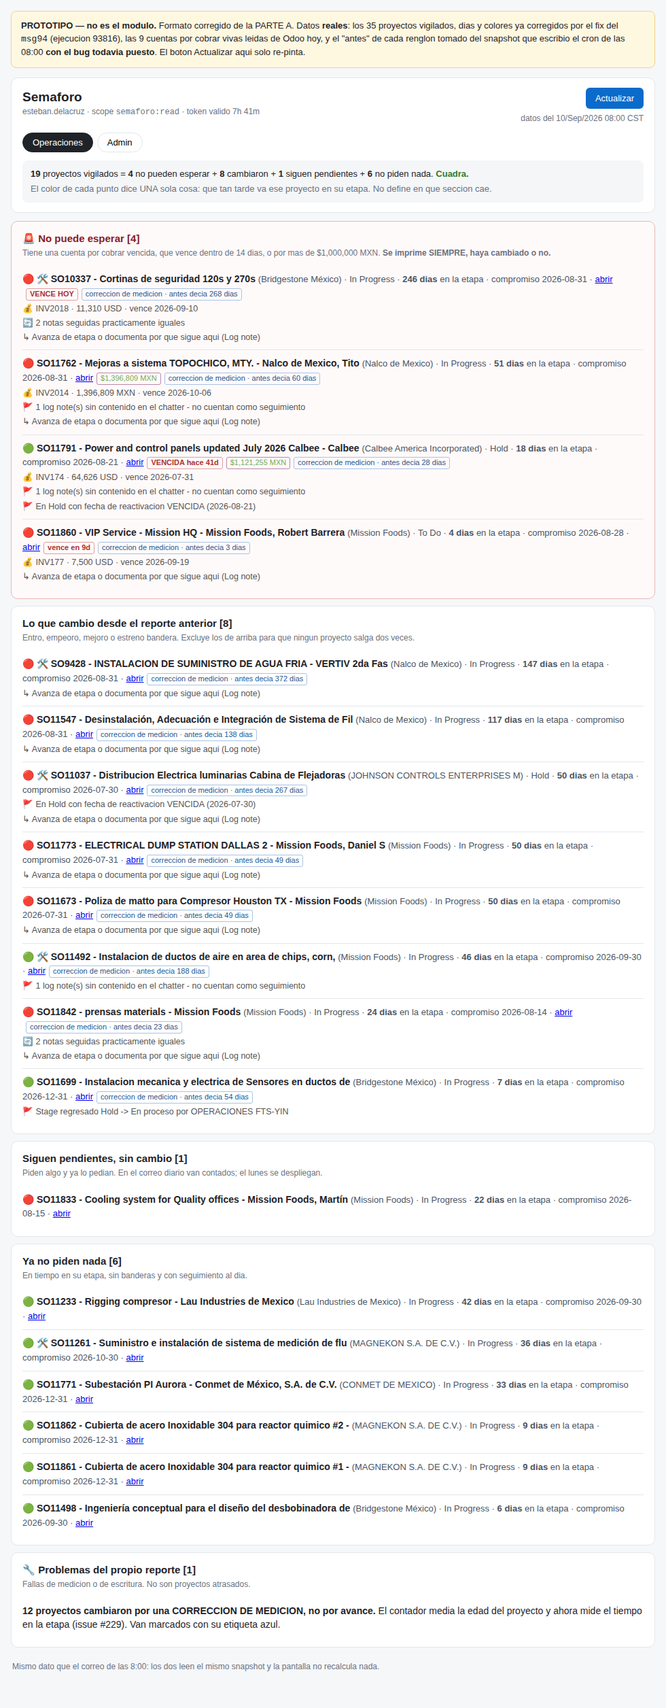
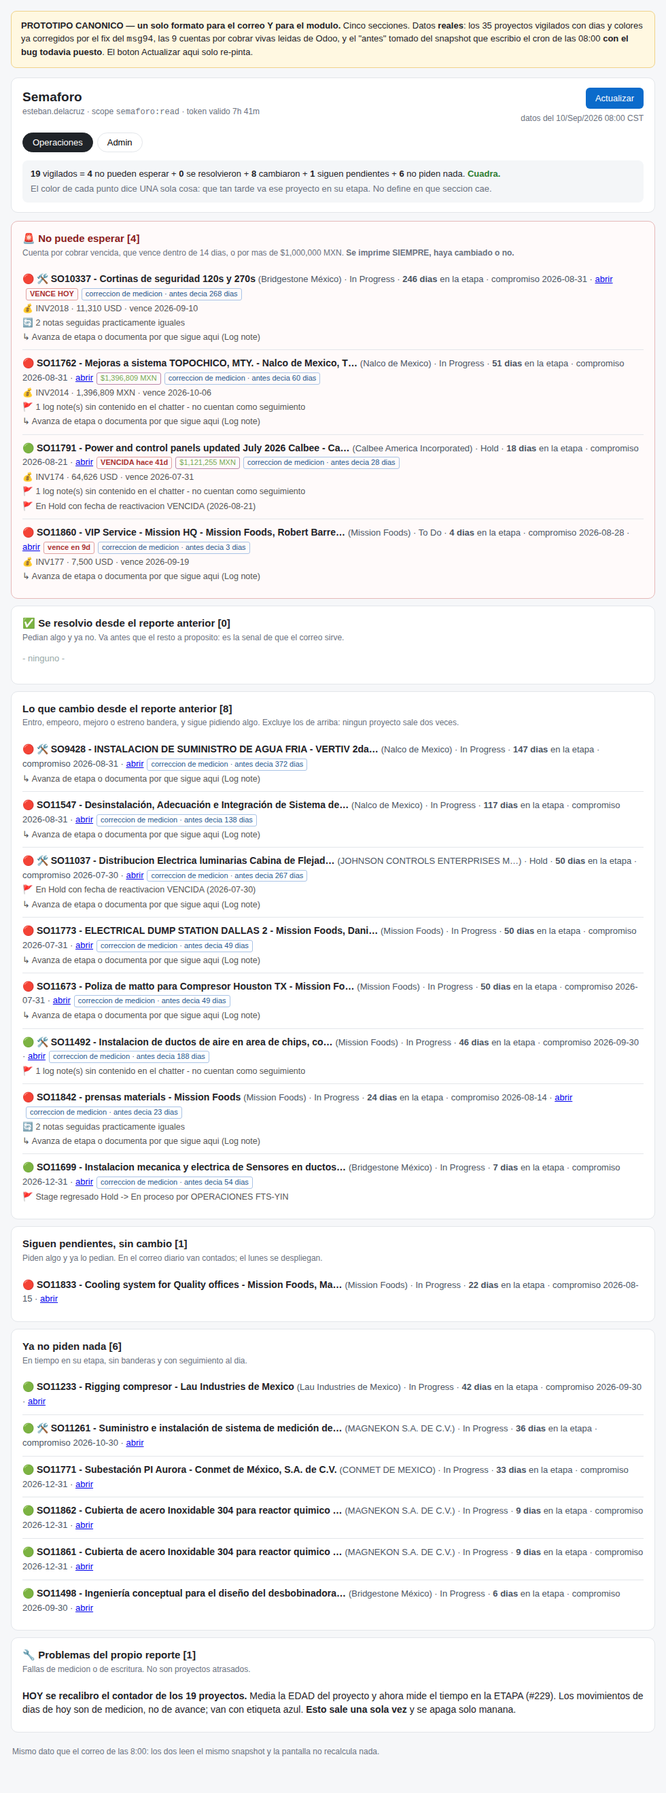
fix(semaforo): prototipo CANONICO, 5 secciones, con las 4 correcciones (#226 #230)
Un solo formato para el correo Y para el modulo. Este archivo manda; la maqueta
correo-propuesto.html queda superseded (proponia 3 secciones, sin la capa de
siempre visible que es la que impide que SO10337 se esconda).

(a) La etiqueta "correccion de medicion" ahora marca el EVENTO PUNTUAL y caduca
    sola: se dispara cuando fuente_a paso de create_date a stage_msg entre la
    corrida anterior y esta. La version previa usaba (dias cambiaron && fuente
    === stage_msg), que a partir de manana -cuando TODOS son stage_msg- habria
    marcado cualquier cambio normal como correccion. Funcionaba por coincidencia
    el unico dia en que la coincidencia se cumplia.

(b) Vuelve SE RESOLVIO, como seccion propia y ANTES del resto: es la senal que
    hace que la gente lea el correo. Se habia perdido porque la seccion de
    cambios exige pide(f), asi que un proyecto que deja de pedir algo caia en
    "ya no piden nada" sin distinguirse.
    Y de paso aparece una interaccion que no habia visto: SO11290 "se resolvio"
    UNICAMENTE porque el contador se corrigio. El renglon lo dice con todas sus
    letras en vez de acreditarse un avance que no ocurrio.

(d) Los nombres se cortan con elipsis, no en seco.

(c) queda como propuesta en el issue: la urgencia financiera se rutea hoy por el
    grupo del PROYECTO, asi que la factura vencida de SO10337 sale en el correo
    de Operaciones y Erick, que cobra, esta en el de Admin.
[…]

Changed region(s): [[0.0306, 0.0, 0.9796, 0.9936], [0.8878, 0.2795, 0.9184, 0.3105]]

diff --git a/docs/watchdogs/prototipo/semaforo-modulo.html b/docs/watchdogs/prototipo/semaforo-modulo.html
@@ -1,4 +1,4 @@
-<!doctype html><meta charset="utf-8"><title>Semaforo - prototipo del modulo</title>
+<!doctype html><meta charset="utf-8"><title>Semaforo - prototipo canonico</title>
 <style>
  :root{--rojo:#c62828;--amar:#b35900;--verde:#2e7d32;--tinta:#1f2328;--gris:#6b7280;--linea:#e3e6ea;--urg:#8a1c1c}
  *{box-sizing:border-box}
@@ -38,9 +38,9 @@
  @media(max-width:560px){.fila1{flex-direction:column}}
 </style>
 <div class="wrap">
-<div class="aviso"><b>PROTOTIPO — no es el modulo.</b> Formato corregido de la PARTE A. Datos <b>reales</b>:
-los 35 proyectos vigilados, dias y colores ya corregidos por el fix del <code>msg94</code> (ejecucion 93816),
-las 9 cuentas por cobrar vivas leidas de Odoo hoy, y el "antes" de cada renglon tomado del snapshot que
+<div class="aviso"><b>PROTOTIPO CANONICO — un solo formato para el correo Y para el modulo.</b>
+Cinco secciones. Datos <b>reales</b>: los 35 proyectos vigilados con dias y colores ya corregidos por el fix
+del <code>msg94</code>, las 9 cuentas por cobrar vivas leidas de Odoo, y el "antes" tomado del snapshot que
 escribio el cron de las 08:00 <b>con el bug todavia puesto</b>. El boton Actualizar aqui solo re-pinta.</div>
 <header class="app">
  <div class="fila1">
@@ -58,35 +58,38 @@ escribio el cron de las 08:00 <b>con el bug todavia puesto</b>. El boton Actuali
 <p class="pie">Mismo dato que el correo de las 8:00: los dos leen el mismo snapshot y la pantalla no recalcula nada.</p>
 </div>
 <script>
-const FILAS = [{"id":2375,"name":"SO11498 - Ingeniería conceptual para el diseño del desbobinadora de carretes Bridgestone e - Bridgestone México","stage":"In Progress","grupo":"Operaciones","cliente":"Bridgestone México","dias":6,"color":"verde","banderas":[],"sin_avance":false,"racha":1,"fuente":"stage_msg","tramo":"6-15","compromiso":"2026-09-30","link":"https://serviciosfts.odoo.com/web#id=2375&model=project.project&view_type=form","antes":{"dias":6,"color":"verde"}},{"id":2360,"name":"SO11748 - Chiller instalation - Calbee America Incorporated, Omar De la Garza","stage":"En plazo de credito","grupo":"Admin","cliente":"Calbee America Incorporated","dias":16,"color":"verde","banderas":[],"sin_avance":false,"racha":1,"fuente":"stage_msg","tramo":"16-30","compromiso":null,"link":"https://serviciosfts.odoo.com/web#id=2360&model=project.project&view_type=form","cxc":{"inv":"INV176","cur":"USD","nat":4469,"mxn":77537.15000000001,"due":"2026-08-18","d":23},"antes":{"dias":30,"color":"verde"}},{"id":2372,"name":"SO11838 - Tools for Calbee - Calbee America Incorporated, Omar De la Garza","stage":"Done Operations","grupo":"Admin","cliente":"Calbee America Incorporated","dias":8,"color":"rojo","banderas":[],"sin_avance":false,"racha":1,"fuente":"stage_msg","tramo":"6-15","compromiso":"2026-07-30","link":"https://serviciosfts.odoo.com/web#id=2372&model=project.project&view_type=form","antes":{"dias":8,"color":"rojo"}},{"id":2376,"name":"SO11860 - VIP Service - Mission HQ - Mission Foods, Robert Barrera","stage":"To Do","grupo":"Operaciones","cliente":"Mission Foods","dias":4,"color":"rojo","banderas":[],"sin_avance":false,"racha":0,"fuente":"stage_msg","tramo":"1-5","compromiso":"2026-08-28","link":"https://serviciosfts.odoo.com/web#id=2376&model=project.project&view_type=form","cxc":{"inv":"INV177","cur":"USD","nat":7500,"mxn":130125.00000000001,"due":"2026-09-19","d":-9},"antes":{"dias":3,"color":"rojo"}},{"id":2352,"name":"SO11699 - Instalacion mecanica y electrica de Sensores en ductos de Extraccion de Colector - Bridgestone México, Ruben Robledo","stage":"In Progress","grupo":"Operaciones","cliente":"Bridgestone México","dias":7,"color":"verde","banderas":["Stage regresado Hold -> En proceso por OPERACIONES FTS-YIN"],"sin_avance":false,"racha":1,"fuente":"stage_msg","tramo":">30","compromiso":"2026-12-31","link":"https://serviciosfts.odoo.com/web#id=2352&model=project.project&view_type=form","antes":{"dias":54,"color":"verde"}},{"id":2364,"name":"SO11832 - Servicio de ajuste de velocidad en embotelladora GEPP - BEBIDAS PURIFICADAS","stage":"En plazo de credito","grupo":"Admin","cliente":"BEBIDAS PURIFICADAS","dias":13,"color":"verde","banderas":[],"sin_avance":false,"racha":1,"fuente":"stage_msg","tramo":"16-30","compromiso":"2026-08-31","link":"https://serviciosfts.odoo.com/web#id=2364&model=project.project&view_type=form","cxc":{"inv":"INV2022","cur":"MXN","nat":86452.48,"mxn":86452.48,"due":"2026-12-16","d":-97},"antes":{"dias":17,"color":"verde"}},{"id":2374,"name":"SO11851 - Materials for aluminium jacketing - Calbee America Incorporated, Omar De la Garza","stage":"Done Operations","grupo":"Admin","cliente":"Calbee America Incorporated","dias":8,"color":"rojo","banderas":[],"sin_avance":false,"racha":1,"fuente":"stage_msg","tramo":"6-15","compromiso":"2026-08-17","link":"https://serviciosfts.odoo.com/web#id=2374&model=project.project&view_type=form","antes":{"dias":8,"color":"rojo"}},{"id":2373,"name":"SO11846 - supply of SS materials for Press DALLAS - Mission Foods","stage":"Done Operations","grupo":"Admin","cliente":"Mission Foods","dias":8,"color":"rojo","banderas":[],"sin_avance":false,"racha":1,"fuente":"stage_msg","tramo":"6-15","compromiso":"2026-08-05","link":"https://serviciosfts.odoo.com/web#id=2373&model=project.project&view_type=form","antes":{"dias":8,"color":"rojo"}},{"id":2369,"name":"SO11862 - Cubierta de acero Inoxidable 304 para reactor quimico #2 - MAGNEKON S.A. DE C.V.","stage":"In Progress","grupo":"Operaciones","cliente":"MAGNEKON S.A. DE C.V.","dias":9,"color":"verde","banderas":[],"sin_avance":false,"racha":1,"fuente":"stage_msg","tramo":"6-15","compromiso":"2026-12-31","link":"https://serviciosfts.odoo.com/web#id=2369&model=project.project&view_type=form","antes":{"dias":8,"color":"verde"}},{"id":213,"name":"🛠 SO11037 - Distribucion Electrica luminarias Cabina de Flejadoras - clarios recicladora","stage":"Hold","grupo":"Operaciones","cliente":"JOHNSON CONTROLS ENTERPRISES MEXICO","dias":50,"color":"rojo","banderas":["En Hold con fecha de reactivacion VENCIDA (2026-07-30)"],"sin_avance":false,"racha":1,"fuente":"stage_msg","tramo":">30","compromiso":"2026-07-30","link":"https://serviciosfts.odoo.com/web#id=213&model=project.project&view_type=form","antes":{"dias":267,"color":"rojo"}},{"id":241,"name":"🛠 SO11290 - Test loop ingeniería mexicali nalco","stage":"En plazo de credito","grupo":"Admin","cliente":"Nalco de Mexico","dias":23,"color":"verde","banderas":[],"sin_avance":false,"racha":1,"fuente":"stage_msg","tramo":">30","compromiso":"2026-07-30","link":"https://serviciosfts.odoo.com/web#id=241&model=project.project&view_type=form","cxc":{"inv":"INV2013","cur":"MXN","nat":184126.8,"mxn":184126.8,"due":"2026-10-04","d":-24},"antes":{"dias":204,"color":"rojo"}},{"id":2371,"name":"SO11849 - supply of breaker - Mission Foods","stage":"Done Operations","grupo":"Admin","cliente":"Mission Foods","dias":8,"color":"rojo","banderas":[],"sin_avance":false,"racha":1,"fuente":"stage_msg","tramo":"6-15","compromiso":"2026-08-14","link":"https://serviciosfts.odoo.com/web#id=2371&model=project.project&view_type=form","antes":{"dias":8,"color":"rojo"}},{"id":2368,"name":"SO11861 - Cubierta de acero Inoxidable 304 para reactor quimico #1 - MAGNEKON S.A. DE C.V.","stage":"In Progress","grupo":"Operaciones","cliente":"MAGNEKON S.A. DE C.V.","dias":9,"color":"verde","banderas":[],"sin_avance":false,"racha":1,"fuente":"stage_msg","tramo":"6-15","compromiso":"2026-12-31","link":"https://serviciosfts.odoo.com/web#id=2368&model=project.project&view_type=form","antes":{"dias":8,"color":"verde"}},{"id":160,"name":"🛠 SO10300 - Techo de Magnekon","stage":"En plazo de credito","grupo":"Admin","cliente":"MAGNEKON S.A. DE C.V.","dias":27,"color":"verde","banderas":["1 log note(s) sin contenido en el chatter - no cuentan como seguimiento"],"sin_avance":false,"racha":1,"fuente":"stage_msg","tramo":">30","compromiso":"2026-07-31","link":"https://serviciosfts.odoo.com/web#id=160&model=project.project&view_type=form","cxc":{"inv":"INV2021","cur":"MXN","nat":1834540,"mxn":1834540,"due":"2026-09-23","d":-13},"antes":{"dias":331,"color":"rojo"}},{"id":2353,"name":"SO11779 - Reparacion de motores de rampa - BEBIDAS PURIFICADAS","stage":"En plazo de credito","grupo":"Admin","cliente":"BEBIDAS PURIFICADAS","dias":36,"color":"amarillo","banderas":[],"sin_avance":false,"racha":1,"fuente":"stage_msg","tramo":">30","compromiso":"2026-06-30","link":"https://serviciosfts.odoo.com/web#id=2353&model=project.project&view_type=form","cxc":{"inv":"INV2006","cur":"MXN","nat":14469.84,"mxn":14469.84,"due":"2026-11-17","d":-68},"antes":{"dias":54,"color":"rojo"}},{"id":2361,"name":"SO11791 - Power and control panels updated July 2026 Calbee - Calbee America Incorporated, Omar De la Garza","stage":"Hold","grupo":"Operaciones","cliente":"Calbee America Incorporated","dias":18,"color":"verde","banderas":["1 log note(s) sin contenido en el chatter - no cuentan como seguimiento","En Hold con fecha de reactivacion VENCIDA (2026-08-21)"],"sin_avance":false,"racha":1,"fuente":"stage_msg","tramo":"16-30","compromiso":"2026-08-21","link":"https://serviciosfts.odoo.com/web#id=2361&model=project.project&view_type=form","cxc":{"inv":"INV174","cur":"USD","nat":64625.63,"mxn":1121254.6805,"due":"2026-07-31","d":41},"antes":{"dias":28,"color":"verde"}},{"id":2363,"name":"SO11833 - Cooling system for Quality offices - Mission Foods, Martín Infante","stage":"In Progress","grupo":"Operaciones","cliente":"Mission Foods","dias":22,"color":"rojo","banderas":[],"sin_avance":false,"racha":1,"fuente":"stage_msg","tramo":"16-30","compromiso":"2026-08-15","link":"https://serviciosfts.odoo.com/web#id=2363&model=project.project&view_type=form","antes":{"dias":22,"color":"rojo"}},{"id":2370,"name":"SO11850 - supply of ss pipe 1 1/2 and liquid tight - Mission Foods","stage":"Done Operations","grupo":"Admin","cliente":"Mission Foods","dias":8,"color":"rojo","banderas":[],"sin_avance":false,"racha":1,"fuente":"stage_msg","tramo":"6-15","compromiso":"2026-08-12","link":"https://serviciosfts.odoo.com/web#id=2370&model=project.project&view_type=form","antes":{"dias":8,"color":"rojo"}},{"id":2327,"name":"SO11511 - Valvula para lavado de botellas","stage":"En plazo de credito","grupo":"Admin","cliente":"BEBIDAS PURIFICADAS","dias":60,"color":"rojo","banderas":[],"sin_avance":false,"racha":1,"fuente":"stage_msg","tramo":">30","compromiso":"2026-03-18","link":"https://serviciosfts.odoo.com/web#id=2327&model=project.project&view_type=form","antes":{"dias":101,"color":"rojo"}},{"id":2366,"name":"SO11772 - Suministro e instalación de injerto de drenado sanitario de 3\" sobre codo - Nalco de Mexico, Tito Everardo Ordaz","stage":"Done Operations","grupo":"Admin","cliente":"Nalco de Mexico","dias":12,"color":"rojo","banderas":[],"sin_avance":false,"racha":1,"fuente":"stage_msg","tramo":"6-15","compromiso":"2026-08-28","link":"https://serviciosfts.odoo.com/web#id=2366&model=project.project&view_type=form","antes":{"dias":15,"color":"rojo"}},{"id":2357,"name":"SO11789 - Suministro de Panelview HMI - GRUMA CORP DBA MISSION FOODS","stage":"En plazo de credito","grupo":"Admin","cliente":"GRUMA CORP DBA MISSION FOODS","dias":42,"color":"rojo","banderas":[],"sin_avance":false,"racha":1,"fuente":"stage_msg","tramo":">30","compromiso":"2026-07-13","link":"https://serviciosfts.odoo.com/web#id=2357&model=project.project&view_type=form","antes":{"dias":45,"color":"rojo"}},{"id":2362,"name":"SO11842 - prensas materials - Mission Foods","stage":"In Progress","grupo":"Operaciones","cliente":"Mission Foods","dias":24,"color":"rojo","banderas":[],"sin_avance":true,"racha":2,"fuente":"stage_msg","tramo":"16-30","compromiso":"2026-08-14","link":"https://serviciosfts.odoo.com/web#id=2362&model=project.project&view_type=form","antes":{"dias":23,"color":"rojo"}},{"id":2365,"name":"SO11737 - Adecuaciones electricas y de control para diferencial de precion - Nalco de Mexico, Tito Everardo Ordaz","stage":"Done Operations","grupo":"Admin","cliente":"Nalco de Mexico","dias":12,"color":"rojo","banderas":[],"sin_avance":false,"racha":1,"fuente":"stage_msg","tramo":"16-30","compromiso":"2026-08-31","link":"https://serviciosfts.odoo.com/web#id=2365&model=project.project&view_type=form","antes":{"dias":17,"color":"rojo"}},{"id":2359,"name":"SO11771 - Subestación PI Aurora - Conmet de México, S.A. de C.V.","stage":"In Progress","grupo":"Operaciones","cliente":"CONMET DE MEXICO","dias":33,"color":"verde","banderas":[],"sin_avance":false,"racha":1,"fuente":"stage_msg","tramo":">30","compromiso":"2026-12-31","link":"https://serviciosfts.odoo.com/web#id=2359&model=project.project&view_type=form","antes":{"dias":33,"color":"verde"}},{"id":101,"name":"🛠 SO7723 - servicio de integración de sistema con sensor de nivel y pantalla HMI","stage":"En plazo de credito","grupo":"Admin","cliente":"MAGNEKON S.A. DE C.V.","dias":61,"color":"rojo","banderas":[],"sin_avance":false,"racha":1,"fuente":"stage_msg","tramo":">30","compromiso":"2025-12-23","link":"https://serviciosfts.odoo.com/web#id=101&model=project.project&view_type=form","antes":{"dias":402,"color":"rojo"}},{"id":2358,"name":"SO11233 - Rigging compresor - Lau Industries de Mexico","stage":"In Progress","grupo":"Operaciones","cliente":"Lau Industries de Mexico","dias":42,"color":"verde","banderas":[],"sin_avance":false,"racha":1,"fuente":"stage_msg","tramo":">30","compromiso":"2026-09-30","link":"https://serviciosfts.odoo.com/web#id=2358&model=project.project&view_type=form","antes":{"dias":42,"color":"verde"}},{"id":2367,"name":"SO11718 - Fabricación e instalación de toma para saneamiento de planta en zona de arreglo  - Nalco de Mexico, Tito Everardo Ordaz","stage":"Done Operations","grupo":"Admin","cliente":"Nalco de Mexico","dias":12,"color":"rojo","banderas":[],"sin_avance":false,"racha":1,"fuente":"stage_msg","tramo":"6-15","compromiso":"2026-08-28","link":"https://serviciosfts.odoo.com/web#id=2367&model=project.project&view_type=form","antes":{"dias":15,"color":"rojo"}},{"id":506,"name":"🛠 SO11492 - Instalacion de ductos de aire en area de chips, corn, flour process area & packing","stage":"In Progress","grupo":"Operaciones","cliente":"Mission Foods","dias":46,"color":"verde","banderas":["1 log note(s) sin contenido en el chatter - no cuentan como seguimiento"],"sin_avance":false,"racha":1,"fuente":"stage_msg","tramo":">30","compromiso":"2026-09-30","link":"https://serviciosfts.odoo.com/web#id=506&model=project.project&view_type=form","antes":{"dias":188,"color":"verde"}},{"id":343,"name":"🛠 SO11261 - Suministro e instalación de sistema de medición de flujo de 2 Etil Hexanol","stage":"In Progress","grupo":"Operaciones","cliente":"MAGNEKON S.A. DE C.V.","dias":36,"color":"verde","banderas":[],"sin_avance":false,"racha":1,"fuente":"stage_msg","tramo":">30","compromiso":"2026-10-30","link":"https://serviciosfts.odoo.com/web#id=343&model=project.project&view_type=form","antes":{"dias":200,"color":"verde"}},{"id":2349,"name":"SO11762 - Mejoras a sistema TOPOCHICO, MTY. - Nalco de Mexico, Tito Everardo Ordaz","stage":"In Progress","grupo":"Operaciones","cliente":"Nalco de Mexico","dias":51,"color":"rojo","banderas":["1 log note(s) sin contenido en el chatter - no cuentan como seguimiento"],"sin_avance":false,"racha":1,"fuente":"stage_msg","tramo":">30","compromiso":"2026-08-31","link":"https://serviciosfts.odoo.com/web#id=2349&model=project.project&view_type=form","cxc":{"inv":"INV2014","cur":"MXN","nat":1396808.9,"mxn":1396808.9,"due":"2026-10-06","d":-26},"antes":{"dias":60,"color":"rojo"}},{"id":2356,"name":"SO11773 - ELECTRICAL DUMP STATION DALLAS 2 - Mission Foods, Daniel Sanudo","stage":"In Progress","grupo":"Operaciones","cliente":"Mission Foods","dias":50,"color":"rojo","banderas":[],"sin_avance":false,"racha":1,"fuente":"stage_msg","tramo":">30","compromiso":"2026-07-31","link":"https://serviciosfts.odoo.com/web#id=2356&model=project.project&view_type=form","antes":{"dias":49,"color":"rojo"}},{"id":2302,"name":"SO11547 - Desinstalación, Adecuación e Integración de Sistema de Filtración en planta Topo Chico","stage":"In Progress","grupo":"Operaciones","cliente":"Nalco de Mexico","dias":117,"color":"rojo","banderas":[],"sin_avance":false,"racha":1,"fuente":"stage_msg","tramo":">30","compromiso":"2026-08-31","link":"https://serviciosfts.odoo.com/web#id=2302&model=project.project&view_type=form","antes":{"dias":138,"color":"rojo"}},{"id":2355,"name":"SO11673 - Poliza de matto para Compresor Houston TX - Mission Foods","stage":"In Progress","grupo":"Operaciones","cliente":"Mission Foods","dias":50,"color":"rojo","banderas":[],"sin_avance":false,"racha":1,"fuente":"stage_msg","tramo":">30","compromiso":"2026-07-31","link":"https://serviciosfts.odoo.com/web#id=2355&model=project.project&view_type=form","antes":{"dias":49,"color":"rojo"}},{"id":121,"name":"🛠 SO9428 - INSTALACION DE SUMINISTRO DE AGUA FRIA - VERTIV 2da Fase","stage":"In Progress","grupo":"Operaciones","cliente":"Nalco de Mexico","dias":147,"color":"rojo","banderas":[],"sin_avance":false,"racha":1,"fuente":"stage_msg","tramo":">30","compromiso":"2026-08-31","link":"https://serviciosfts.odoo.com/web#id=121&model=project.project&view_type=form","antes":{"dias":372,"color":"rojo"}},{"id":212,"name":"🛠 SO10337 - Cortinas de seguridad 120s y 270s","stage":"In Progress","grupo":"Operaciones","cliente":"Bridgestone México","dias":246,"color":"rojo","banderas":[],"sin_avance":true,"racha":2,"fuente":"stage_msg","tramo":">30","compromiso":"2026-08-31","link":"https://serviciosfts.odoo.com/web#id=212&model=project.project&view_type=form","cxc":{"inv":"INV2018","cur":"USD","nat":11310,"mxn":194752.55,"due":"2026-09-10","d":0},"antes":{"dias":268,"color":"rojo"}}];
+const FILAS=[{"id":2375,"name":"SO11498 - Ingeniería conceptual para el diseño del desbobinadora de carretes Bridgestone e - Bridgestone México","stage":"In Progress","grupo":"Operaciones","cliente":"Bridgestone México","dias":6,"color":"verde","banderas":[],"sin_avance":false,"racha":1,"fuente":"stage_msg","tramo":"6-15","compromiso":"2026-09-30","link":"https://serviciosfts.odoo.com/web#id=2375&model=project.project&view_type=form","antes":{"dias":6,"color":"verde","fuente":"create_date","pide":false}},{"id":2360,"name":"SO11748 - Chiller instalation - Calbee America Incorporated, Omar De la Garza","stage":"En plazo de credito","grupo":"Admin","cliente":"Calbee America Incorporated","dias":16,"color":"verde","banderas":[],"sin_avance":false,"racha":1,"fuente":"stage_msg","tramo":"16-30","compromiso":null,"link":"https://serviciosfts.odoo.com/web#id=2360&model=project.project&view_type=form","cxc":{"inv":"INV176","cur":"USD","nat":4469,"mxn":77537.15000000001,"due":"2026-08-18","d":23},"antes":{"dias":30,"color":"verde","fuente":"create_date","pide":false}},{"id":2372,"name":"SO11838 - Tools for Calbee - Calbee America Incorporated, Omar De la Garza","stage":"Done Operations","grupo":"Admin","cliente":"Calbee America Incorporated","dias":8,"color":"rojo","banderas":[],"sin_avance":false,"racha":1,"fuente":"stage_msg","tramo":"6-15","compromiso":"2026-07-30","link":"https://serviciosfts.odoo.com/web#id=2372&model=project.project&view_type=form","antes":{"dias":8,"color":"rojo","fuente":"create_date","pide":true}},{"id":2376,"name":"SO11860 - VIP Service - Mission HQ - Mission Foods, Robert Barrera","stage":"To Do","grupo":"Operaciones","cliente":"Mission Foods","dias":4,"color":"rojo","banderas":[],"sin_avance":false,"racha":0,"fuente":"stage_msg","tramo":"1-5","compromiso":"2026-08-28","link":"https://serviciosfts.odoo.com/web#id=2376&model=project.project&view_type=form","cxc":{"inv":"INV177","cur":"USD","nat":7500,"mxn":130125.00000000001,"due":"2026-09-19","d":-9},"antes":{"dias":3,"color":"rojo","fuente":"create_date","pide":true}},{"id":2352,"name":"SO11699 - Instalacion mecanica y electrica de Sensores en ductos de Extraccion de Colector - Bridgestone México, Ruben Robledo","stage":"In Progress","grupo":"Operaciones","cliente":"Bridgestone México","dias":7,"color":"verde","banderas":["Stage regresado Hold -> En proceso por OPERACIONES FTS-YIN"],"sin_avance":false,"racha":1,"fuente":"stage_msg","tramo":">30","compromiso":"2026-12-31","link":"https://serviciosfts.odoo.com/web#id=2352&model=project.project&view_type=form","antes":{"dias":54,"color":"verde","fuente":"create_date","pide":true}},{"id":2364,"name":"SO11832 - Servicio de ajuste de velocidad en embotelladora GEPP - BEBIDAS PURIFICADAS","stage":"En plazo de credito","grupo":"Admin","cliente":"BEBIDAS PURIFICADAS","dias":13,"color":"verde","banderas":[],"sin_avance":false,"racha":1,"fuente":"stage_msg","tramo":"16-30","compromiso":"2026-08-31","link":"https://serviciosfts.odoo.com/web#id=2364&model=project.project&view_type=form","cxc":{"inv":"INV2022","cur":"MXN","nat":86452.48,"mxn":86452.48,"due":"2026-12-16","d":-97},"antes":{"dias":17,"color":"verde","fuente":"create_date","pide":false}},{"id":2374,"name":"SO11851 - Materials for aluminium jacketing - Calbee America Incorporated, Omar De la Garza","stage":"Done Operations","grupo":"Admin","cliente":"Calbee America Incorporated","dias":8,"color":"rojo","banderas":[],"sin_avance":false,"racha":1,"fuente":"stage_msg","tramo":"6-15","compromiso":"2026-08-17","link":"https://serviciosfts.odoo.com/web#id=2374&model=project.project&view_type=form","antes":{"dias":8,"color":"rojo","fuente":"create_date","pide":true}},{"id":2373,"name":"SO11846 - supply of SS materials for Press DALLAS - Mission Foods","stage":"Done Operations","grupo":"Admin","cliente":"Mission Foods","dias":8,"color":"rojo","banderas":[],"sin_avance":false,"racha":1,"fuente":"stage_msg","tramo":"6-15","compromiso":"2026-08-05","link":"https://serviciosfts.odoo.com/web#id=2373&model=project.project&view_type=form","antes":{"dias":8,"color":"rojo","fuente":"create_date","pide":true}},{"id":2369,"name":"SO11862 - Cubierta de acero Inoxidable 304 para reactor quimico #2 - MAGNEKON S.A. DE C.V.","stage":"In Progress","grupo":"Operaciones","cliente":"MAGNEKON S.A. DE C.V.","dias":9,"color":"verde","banderas":[],"sin_avance":false,"racha":1,"fuente":"stage_msg","tramo":"6-15","compromiso":"2026-12-31","link":"https://serviciosfts.odoo.com/web#id=2369&model=project.project&view_type=form","antes":{"dias":8,"color":"verde","fuente":"create_date","pide":false}},{"id":213,"name":"🛠 SO11037 - Distribucion Electrica luminarias Cabina de Flejadoras - clarios recicladora","stage":"Hold","grupo":"Operaciones","cliente":"JOHNSON CONTROLS ENTERPRISES MEXICO","dias":50,"color":"rojo","banderas":["En Hold con fecha de reactivacion VENCIDA (2026-07-30)"],"sin_avance":false,"racha":1,"fuente":"stage_msg","tramo":">30","compromiso":"2026-07-30","link":"https://serviciosfts.odoo.com/web#id=213&model=project.project&view_type=form","antes":{"dias":267,"color":"rojo","fuente":"create_date","pide":true}},{"id":241,"name":"🛠 SO11290 - Test loop ingeniería mexicali nalco","stage":"En plazo de credito","grupo":"Admin","cliente":"Nalco de Mexico","dias":23,"color":"verde","banderas":[],"sin_avance":false,"racha":1,"fuente":"stage_msg","tramo":">30","compromiso":"2026-07-30","link":"https://serviciosfts.odoo.com/web#id=241&model=project.project&view_type=form","cxc":{"inv":"INV2013","cur":"MXN","nat":184126.8,"mxn":184126.8,"due":"2026-10-04","d":-24},"antes":{"dias":204,"color":"rojo","fuente":"create_date","pide":true}},{"id":2371,"name":"SO11849 - supply of breaker - Mission Foods","stage":"Done Operations","grupo":"Admin","cliente":"Mission Foods","dias":8,"color":"rojo","banderas":[],"sin_avance":false,"racha":1,"fuente":"stage_msg","tramo":"6-15","compromiso":"2026-08-14","link":"https://serviciosfts.odoo.com/web#id=2371&model=project.project&view_type=form","antes":{"dias":8,"color":"rojo","fuente":"create_date","pide":true}},{"id":2368,"name":"SO11861 - Cubierta de acero Inoxidable 304 para reactor quimico #1 - MAGNEKON S.A. DE C.V.","stage":"In Progress","grupo":"Operaciones","cliente":"MAGNEKON S.A. DE C.V.","dias":9,"color":"verde","banderas":[],"sin_avance":false,"racha":1,"fuente":"stage_msg","tramo":"6-15","compromiso":"2026-12-31","link":"https://serviciosfts.odoo.com/web#id=2368&model=project.project&view_type=form","antes":{"dias":8,"color":"verde","fuente":"create_date","pide":false}},{"id":160,"name":"🛠 SO10300 - Techo de Magnekon","stage":"En plazo de credito","grupo":"Admin","cliente":"MAGNEKON S.A. DE C.V.","dias":27,"color":"verde","banderas":["1 log note(s) sin contenido en el chatter - no cuentan como seguimiento"],"sin_avance":false,"racha":1,"fuente":"stage_msg","tramo":">30","compromiso":"2026-07-31","link":"https://serviciosfts.odoo.com/web#id=160&model=project.project&view_type=form","cxc":{"inv":"INV2021","cur":"MXN","nat":1834540,"mxn":1834540,"due":"2026-09-23","d":-13},"antes":{"dias":331,"color":"rojo","fuente":"create_date","pide":true}},{"id":2353,"name":"SO11779 - Reparacion de motores de rampa - BEBIDAS PURIFICADAS","stage":"En plazo de credito","grupo":"Admin","cliente":"BEBIDAS PURIFICADAS","dias":36,"color":"amarillo","banderas":[],"sin_avance":false,"racha":1,"fuente":"stage_msg","tramo":">30","compromiso":"2026-06-30","link":"https://serviciosfts.odoo.com/web#id=2353&model=project.project&view_type=form","cxc":{"inv":"INV2006","cur":"MXN","nat":14469.84,"mxn":14469.84,"due":"2026-11-17","d":-68},"antes":{"dias":54,"color":"rojo","fuente":"create_date","pide":true}},{"id":2361,"name":"SO11791 - Power and control panels updated July 2026 Calbee - Calbee America Incorporated, Omar De la Garza","stage":"Hold","grupo":"Operaciones","cliente":"Calbee America Incorporated","dias":18,"color":"verde","banderas":["1 log note(s) sin contenido en el chatter - no cuentan como seguimiento","En Hold con fecha de reactivacion VENCIDA (2026-08-21)"],"sin_avance":false,"racha":1,"fuente":"stage_msg","tramo":"16-30","compromiso":"2026-08-21","link":"https://serviciosfts.odoo.com/web#id=2361&model=project.project&view_type=form","cxc":{"inv":"INV174","cur":"USD","nat":64625.63,"mxn":1121254.6805,"due":"2026-07-31","d":41},"antes":{"dias":28,"color":"verde","fuente":"create_date","pide":true}},{"id":2363,"name":"SO11833 - Cooling system for Quality offices - Mission Foods, Martín Infante","stage":"In Progress","grupo":"Operaciones","cliente":"Mission Foods","dias":22,"color":"rojo","banderas":[],"sin_avance":false,"racha":1,"fuente":"stage_msg","tramo":"16-30","compromiso":"2026-08-15","link":"https://serviciosfts.odoo.com/web#id=2363&model=project.project&view_type=form","antes":{"dias":22,"color":"rojo","fuente":"create_date","pide":true}},{"id":2370,"name":"SO11850 - supply of ss pipe 1 1/2 and liquid tight - Mission Foods","stage":"Done Operations","grupo":"Admin","cliente":"Mission Foods","dias":8,"color":"rojo","banderas":[],"sin_avance":false,"racha":1,"fuente":"stage_msg","tramo":"6-15","compromiso":"2026-08-12","link":"https://serviciosfts.odoo.com/web#id=2370&model=project.project&view_type=form","antes":{"dias":8,"color":"rojo","fuente":"create_date","pide":true}},{"id":2327,"name":"SO11511 - Valvula para lavado de botellas","stage":"En plazo de credito","grupo":"Admin","cliente":"BEBIDAS PURIFICADAS","dias":60,"color":"rojo","banderas":[],"sin_avance":false,"racha":1,"fuente":"stage_msg","tramo":">30","compromiso":"2026-03-18","link":"https://serviciosfts.odoo.com/web#id=2327&model=project.project&view_type=form","antes":{"dias":101,"color":"rojo","fuente":"create_date","pide":true}},{"id":2366,"name":"SO11772 - Suministro e instalación de injerto de drenado sanitario de 3\" sobre codo - Nalco de Mexico, Tito Everardo Ordaz","stage":"Done Operations","grupo":"Admin","cliente":"Nalco de Mexico","dias":12,"color":"rojo","banderas":[],"sin_avance":false,"racha":1,"fuente":"stage_msg","tramo":"6-15","compromiso":"2026-08-28","link":"https://serviciosfts.odoo.com/web#id=2366&model=project.project&view_type=form","antes":{"dias":15,"color":"rojo","fuente":"create_date","pide":true}},{"id":2357,"name":"SO11789 - Suministro de Panelview HMI - GRUMA CORP DBA MISSION FOODS","stage":"En plazo de credito","grupo":"Admin","cliente":"GRUMA CORP DBA MISSION FOODS","dias":42,"color":"rojo","banderas":[],"sin_avance":false,"racha":1,"fuente":"stage_msg","tramo":">30","compromiso":"2026-07-13","link":"https://serviciosfts.odoo.com/web#id=2357&model=project.project&view_type=form","antes":{"dias":45,"color":"rojo","fuente":"create_date","pide":true}},{"id":2362,"name":"SO11842 - prensas materials - Mission Foods","stage":"In Progress","grupo":"Operaciones","cliente":"Mission Foods","dias":24,"color":"rojo","banderas":[],"sin_avance":true,"racha":2,"fuente":"stage_msg","tramo":"16-30","compromiso":"2026-08-14","link":"https://serviciosfts.odoo.com/web#id=2362&model=project.project&view_type=form","antes":{"dias":23,"color":"rojo","fuente":"create_date","pide":true}},{"id":2365,"name":"SO11737 - Adecuaciones electricas y de control para diferencial de precion - Nalco de Mexico, Tito Everardo Ordaz","stage":"Done Operations","grupo":"Admin","cliente":"Nalco de Mexico","dias":12,"color":"rojo","banderas":[],"sin_avance":false,"racha":1,"fuente":"stage_msg","tramo":"16-30","compromiso":"2026-08-31","link":"https://serviciosfts.odoo.com/web#id=2365&model=project.project&view_type=form","antes":{"dias":17,"color":"rojo","fuente":"create_date","pide":true}},{"id":2359,"name":"SO11771 - Subestación PI Aurora - Conmet de México, S.A. de C.V.","stage":"In Progress","grupo":"Operaciones","cliente":"CONMET DE MEXICO","dias":33,"color":"verde","banderas":[],"sin_avance":false,"racha":1,"fuente":"stage_msg","tramo":">30","compromiso":"2026-12-31","link":"https://serviciosfts.odoo.com/web#id=2359&model=project.project&view_type=form","antes":{"dias":33,"color":"verde","fuente":"create_date","pide":false}},{"id":101,"name":"🛠 SO7723 - servicio de integración de sistema con sensor de nivel y pantalla HMI","stage":"En plazo de credito","grupo":"Admin","cliente":"MAGNEKON S.A. DE C.V.","dias":61,"color":"rojo","banderas":[],"sin_avance":false,"racha":1,"fuente":"stage_msg","tramo":">30","compromiso":"2025-12-23","link":"https://serviciosfts.odoo.com/web#id=101&model=project.project&view_type=form","antes":{"dias":402,"color":"rojo","fuente":"create_date","pide":true}},{"id":2358,"name":"SO11233 - Rigging compresor - Lau Industries de Mexico","stage":"In Progress","grupo":"Operaciones","cliente":"Lau Industries de Mexico","dias":42,"color":"verde","banderas":[],"sin_avance":false,"racha":1,"fuente":"stage_msg","tramo":">30","compromiso":"2026-09-30","link":"https://serviciosfts.odoo.com/web#id=2358&model=project.project&view_type=form","antes":{"dias":42,"color":"verde","fuente":"create_date","pide":false}},{"id":2367,"name":"SO11718 - Fabricación e instalación de toma para saneamiento de planta en zona de arreglo  - Nalco de Mexico, Tito Everardo Ordaz","stage":"Done Operations","grupo":"Admin","cliente":"Nalco de Mexico","dias":12,"color":"rojo","banderas":[],"sin_avance":false,"racha":1,"fuente":"stage_msg","tramo":"6-15","compromiso":"2026-08-28","link":"https://serviciosfts.odoo.com/web#id=2367&model=project.project&view_type=form","antes":{"dias":15,"color":"rojo","fuente":"create_date","pide":true}},{"id":506,"name":"🛠 SO11492 - Instalacion de ductos de aire en area de chips, corn, flour process area & packing","stage":"In Progress","grupo":"Operaciones","cliente":"Mission Foods","dias":46,"color":"verde","banderas":["1 log note(s) sin contenido en el chatter - no cuentan como seguimiento"],"sin_avance":false,"racha":1,"fuente":"stage_msg","tramo":">30","compromiso":"2026-09-30","link":"https://serviciosfts.odoo.com/web#id=506&model=project.project&view_type=form","antes":{"dias":188,"color":"verde","fuente":"create_date","pide":true}},{"id":343,"name":"🛠 SO11261 - Suministro e instalación de sistema de medición de flujo de 2 Etil Hexanol","stage":"In Progress","grupo":"Operaciones","cliente":"MAGNEKON S.A. DE C.V.","dias":36,"color":"verde","banderas":[],"sin_avance":false,"racha":1,"fuente":"stage_msg","tramo":">30","compromiso":"2026-10-30","link":"https://serviciosfts.odoo.com/web#id=343&model=project.project&view_type=form","antes":{"dias":200,"color":"verde","fuente":"create_date","pide":false}},{"id":2349,"name":"SO11762 - Mejoras a sistema TOPOCHICO, MTY. - Nalco de Mexico, Tito Everardo Ordaz","stage":"In Progress","grupo":"Operaciones","cliente":"Nalco de Mexico","dias":51,"color":"rojo","banderas":["1 log note(s) sin contenido en el chatter - no cuentan como seguimiento"],"sin_avance":false,"racha":1,"fuente":"stage_msg","tramo":">30","compromiso":"2026-08-31","link":"https://serviciosfts.odoo.com/web#id=2349&model=project.project&view_type=form","cxc":{"inv":"INV2014","cur":"MXN","nat":1396808.9,"mxn":1396808.9,"due":"2026-10-06","d":-26},"antes":{"dias":60,"color":"rojo","fuente":"create_date","pide":true}},{"id":2356,"name":"SO11773 - ELECTRICAL DUMP STATION DALLAS 2 - Mission Foods, Daniel Sanudo","stage":"In Progress","grupo":"Operaciones","cliente":"Mission Foods","dias":50,"color":"rojo","banderas":[],"sin_avance":false,"racha":1,"fuente":"stage_msg","tramo":">30","compromiso":"2026-07-31","link":"https://serviciosfts.odoo.com/web#id=2356&model=project.project&view_type=form","antes":{"dias":49,"color":"rojo","fuente":"create_date","pide":true}},{"id":2302,"name":"SO11547 - Desinstalación, Adecuación e Integración de Sistema de Filtración en planta Topo Chico","stage":"In Progress","grupo":"Operaciones","cliente":"Nalco de Mexico","dias":117,"color":"rojo","banderas":[],"sin_avance":false,"racha":1,"fuente":"stage_msg","tramo":">30","compromiso":"2026-08-31","link":"https://serviciosfts.odoo.com/web#id=2302&model=project.project&view_type=form","antes":{"dias":138,"color":"rojo","fuente":"create_date","pide":true}},{"id":2355,"name":"SO11673 - Poliza de matto para Compresor Houston TX - Mission Foods","stage":"In Progress","grupo":"Operaciones","cliente":"Mission Foods","dias":50,"color":"rojo","banderas":[],"sin_avance":false,"racha":1,"fuente":"stage_msg","tramo":">30","compromiso":"2026-07-31","link":"https://serviciosfts.odoo.com/web#id=2355&model=project.project&view_type=form","antes":{"dias":49,"color":"rojo","fuente":"create_date","pide":true}},{"id":121,"name":"🛠 SO9428 - INSTALACION DE SUMINISTRO DE AGUA FRIA - VERTIV 2da Fase","stage":"In Progress","grupo":"Operaciones","cliente":"Nalco de Mexico","dias":147,"color":"rojo","banderas":[],"sin_avance":false,"racha":1,"fuente":"stage_msg","tramo":">30","compromiso":"2026-08-31","link":"https://serviciosfts.odoo.com/web#id=121&model=project.project&view_type=form","antes":{"dias":372,"color":"rojo","fuente":"create_date","pide":true}},{"id":212,"name":"🛠 SO10337 - Cortinas de seguridad 120s y 270s","stage":"In Progress","grupo":"Operaciones","cliente":"Bridgestone México","dias":246,"color":"rojo","banderas":[],"sin_avance":true,"racha":2,"fuente":"stage_msg","tramo":">30","compromiso":"2026-08-31","link":"https://serviciosfts.odoo.com/web#id=212&model=project.project&view_type=form","cxc":{"inv":"INV2018","cur":"USD","nat":11310,"mxn":194752.55,"due":"2026-09-10","d":0},"antes":{"dias":268,"color":"rojo","fuente":"create_date","pide":true}}];
 const PUNTO={rojo:"\u{1F534}",amarillo:"\u{1F7E1}",verde:"\u{1F7E2}"};
 const ACC={rojo:"Avanza de etapa o documenta por que sigue aqui (Log note)",amarillo:"Se acerca al limite: mueve la etapa o documenta"};
-const UMBRAL_MXN=1000000, VENTANA_DIAS=14;
+const UMBRAL_MXN=1000000, VENTANA_DIAS=14, CORTE_NOMBRE=64;
 let grupo="Operaciones";
 const esc=s=>String(s==null?"":s).replace(/[&<>]/g,c=>({"&":"&amp;","<":"&lt;",">":"&gt;"}[c]));
 const money=n=>Math.round(n).toLocaleString("en-US");
+// (d) corte CON elipsis, para que se vea que esta cortado
+const corta=(s,n)=>{s=String(s||"");return s.length>n?s.slice(0,n)+"\u2026":s;};
 const pide=f=>f.color!=="verde"||f.sin_avance||f.banderas.length>0;
-// urgencia FINANCIERA: vencida, por vencer dentro de la ventana, o monto sobre umbral
-function urgencia(f){
-  if(!f.cxc) return null;
-  const r=[];
+// (a) La correccion de medicion es un EVENTO PUNTUAL: la fuente del contador paso de
+// create_date a stage_msg. Manana ya seran las dos stage_msg y esto se apaga solo.
+// La version anterior usaba (dias cambiaron && fuente==="stage_msg"), que a partir de
+// manana marcaria CUALQUIER cambio normal como correccion. Funcionaba por coincidencia.
+const esCorreccion=f=>!!(f.antes && f.antes.fuente==="create_date" && f.fuente==="stage_msg");
+const cambio=f=>{ if(!f.antes) return null;
+  if(f.antes.dias===f.dias && f.antes.color===f.color) return null;
+  const dir = f.antes.color===f.color ? "cambio"
+      : (f.color==="verde"||(f.antes.color==="rojo"&&f.color==="amarillo") ? "mejoro" : "empeoro");
+  return {dir, antesDias:f.antes.dias, antesColor:f.antes.color, corr:esCorreccion(f)};
+};
+// (b) SE RESOLVIO: pedia algo y ya no. Es la senal que hace que la gente lea el correo.
+const resuelto=f=>!!(f.antes && f.antes.pide && !pide(f));
+function urgencia(f){ if(!f.cxc) return null; const r=[];
   if(f.cxc.d>0) r.push({t:"VENCIDA hace "+f.cxc.d+"d",k:"vence"});
   else if(f.cxc.d===0) r.push({t:"VENCE HOY",k:"vence"});
   else if(-f.cxc.d<=VENTANA_DIAS) r.push({t:"vence en "+(-f.cxc.d)+"d",k:"vence"});
   if(f.cxc.mxn>=UMBRAL_MXN) r.push({t:"$"+money(f.cxc.mxn)+" MXN",k:"dinero"});
-  return r.length?r:null;
-}
-// cambio vs la corrida anterior, distinguiendo AVANCE de CORRECCION DE MEDICION
-function cambio(f){
-  if(!f.antes) return null;
-  if(f.antes.dias===f.dias && f.antes.color===f.color) return null;
-  const corr = f.antes.dias!==f.dias && f.fuente==="stage_msg";
-  const dir = f.antes.color===f.color ? "cambio" : (f.color==="verde"||(f.antes.color==="rojo"&&f.color==="amarillo") ? "mejoro" : "empeoro");
-  return {corr, dir, antesDias:f.antes.dias, antesColor:f.antes.color};
-}
-function renglon(f,compacto,urg){
-  let h="<li class=\"row\">"+PUNTO[f.color]+" <span class=\"nom\">"+esc(f.name.slice(0,68))+"</span>";
-  h+=" <span class=\"meta\">("+esc(f.cliente.slice(0,30))+") &middot; "+esc(f.stage);
+  return r.length?r:null; }
+function renglon(f,compacto,urg,modo){
+  let h="<li class=\"row\">"+PUNTO[f.color]+" <span class=\"nom\">"+esc(corta(f.name,CORTE_NOMBRE))+"</span>";
+  h+=" <span class=\"meta\">("+esc(corta(f.cliente,30))+") &middot; "+esc(f.stage);
   h+=" &middot; <b>"+f.dias+(f.dias===1?" dia":" dias")+"</b> en la etapa";
   if(f.compromiso) h+=" &middot; compromiso "+esc(f.compromiso.slice(0,10));
   h+=" &middot; <a href=\""+f.link+"\" target=\"_blank\" rel=\"noopener\">abrir</a></span>";
@@ -96,10 +99,15 @@ function renglon(f,compacto,urg){
     if(c.corr) h+="<span class=\"chip corr\">correccion de medicion &middot; antes decia "+c.antesDias+" dias</span>";
     else h+="<span class=\"chip\">"+c.dir+" &middot; antes "+c.antesDias+" dias</span>";
   }
-  if(compacto){
-    const m=[]; if(f.sin_avance) m.push(f.racha+" notas iguales"); if(f.banderas.length) m.push(f.banderas.length+" bandera"+(f.banderas.length>1?"s":""));
+  if(modo==="resuelto"){
+    h+= esCorreccion(f)
+      ? "<span class=\"band\">\u26A0\uFE0F Salio de la lista por la CORRECCION del contador, no porque avanzara. Antes decia "+(f.antes?f.antes.dias:"?")+" dias.</span>"
+      : "<span class=\"band\">\u2705 Dejo de pedir algo desde el reporte anterior.</span>";
+  }
+  if(compacto){ const m=[]; if(f.sin_avance) m.push(f.racha+" notas iguales");
+    if(f.banderas.length) m.push(f.banderas.length+" bandera"+(f.banderas.length>1?"s":""));
     if(m.length) h+="<span class=\"chip\">"+esc(m.join(" + "))+"</span>";
-  } else {
+  } else if(modo!=="resuelto"){
     if(f.cxc) h+="<span class=\"band\">\u{1F4B0} "+f.cxc.inv+" &middot; "+money(f.cxc.nat)+" "+f.cxc.cur+" &middot; vence "+f.cxc.due+"</span>";
     for(const b of f.banderas) h+="<span class=\"band\">\u{1F6A9} "+esc(b)+"</span>";
     if(f.sin_avance) h+="<span class=\"band\">\u{1F504} "+f.racha+" notas seguidas practicamente iguales</span>";
@@ -107,40 +115,42 @@ function renglon(f,compacto,urg){
   }
   return h+"</li>";
 }
-function sec(tit,crit,arr,compacto,urgente,urgMap){
+function sec(tit,crit,arr,compacto,urgente,urgMap,modo){
   let h="<section"+(urgente?" class=\"urgente\"":"")+"><h2"+(urgente?" class=\"urg\"":"")+">"+tit+" ["+arr.length+"]</h2><p class=\"criterio\">"+crit+"</p>";
   if(!arr.length) return h+"<p class=\"vacio\">- ninguno -</p></section>";
-  h+="<ul>"+arr.map(f=>renglon(f,compacto,urgMap?urgMap.get(f.id):null)).join("")+"</ul>";
-  return h+"</section>";
+  return h+"<ul>"+arr.map(f=>renglon(f,compacto,urgMap?urgMap.get(f.id):null,modo)).join("")+"</ul></section>";
 }
 function pintar(){
   const sub=FILAS.filter(f=>f.grupo===grupo);
-  const urgMap=new Map(); const urg=[];
-  for(const f of sub){ const u=urgencia(f); if(u){urgMap.set(f.id,u); urg.push(f);} }
+  const urgMap=new Map(), urg=[];
+  for(const f of sub){const u=urgencia(f); if(u){urgMap.set(f.id,u);urg.push(f);}}
   const urgIds=new Set(urg.map(f=>f.id));
-  const camb=sub.filter(f=>!urgIds.has(f.id) && cambio(f) && pide(f));
+  const res=sub.filter(f=>!urgIds.has(f.id) && resuelto(f));
+  const resIds=new Set(res.map(f=>f.id));
+  const camb=sub.filter(f=>!urgIds.has(f.id)&&!resIds.has(f.id)&&cambio(f)&&pide(f));
   const cambIds=new Set(camb.map(f=>f.id));
-  const resto=sub.filter(f=>pide(f) && !urgIds.has(f.id) && !cambIds.has(f.id));
-  const noPide=sub.filter(f=>!pide(f) && !urgIds.has(f.id));
-  const nCorr=camb.filter(f=>cambio(f).corr).length + urg.filter(f=>cambio(f)&&cambio(f).corr).length;
+  const resto=sub.filter(f=>pide(f)&&!urgIds.has(f.id)&&!cambIds.has(f.id)&&!resIds.has(f.id));
+  const noPide=sub.filter(f=>!pide(f)&&!urgIds.has(f.id)&&!resIds.has(f.id));
+  const nCorr=sub.filter(esCorreccion).length;
   const ord=a=>a.slice().sort((x,y)=>y.dias-x.dias);
+  const suma=urg.length+res.length+camb.length+resto.length+noPide.length;
   document.getElementById("recuento").innerHTML=
-    "<b>"+sub.length+"</b> proyectos vigilados = <b>"+urg.length+"</b> no pueden esperar + <b>"+camb.length+
-    "</b> cambiaron + <b>"+resto.length+"</b> siguen pendientes + <b>"+noPide.length+"</b> no piden nada."+
-    (urg.length+camb.length+resto.length+noPide.length===sub.length?" <span class=\"ok\">Cuadra.</span>":" <b>NO CUADRA</b>")+
+    "<b>"+sub.length+"</b> vigilados = <b>"+urg.length+"</b> no pueden esperar + <b>"+res.length+
+    "</b> se resolvieron + <b>"+camb.length+"</b> cambiaron + <b>"+resto.length+"</b> siguen pendientes + <b>"+
+    noPide.length+"</b> no piden nada."+(suma===sub.length?" <span class=\"ok\">Cuadra.</span>":" <b>NO CUADRA</b>")+
     "<br><span style=\"color:#6b7280\">El color de cada punto dice UNA sola cosa: que tan tarde va ese proyecto en su etapa. No define en que seccion cae.</span>";
   let h="";
-  h+=sec("\u{1F6A8} No puede esperar","Tiene una cuenta por cobrar vencida, que vence dentro de "+VENTANA_DIAS+" dias, o por mas de $"+money(UMBRAL_MXN)+" MXN. <b>Se imprime SIEMPRE, haya cambiado o no.</b>",ord(urg),false,true,urgMap);
-  h+=sec("Lo que cambio desde el reporte anterior","Entro, empeoro, mejoro o estreno bandera. Excluye los de arriba para que ningun proyecto salga dos veces.",ord(camb),false,false,null);
-  h+=sec("Siguen pendientes, sin cambio","Piden algo y ya lo pedian. En el correo diario van contados; el lunes se despliegan.",ord(resto),true,false,null);
-  h+=sec("Ya no piden nada","En tiempo en su etapa, sin banderas y con seguimiento al dia.",ord(noPide),true,false,null);
+  h+=sec("\u{1F6A8} No puede esperar","Cuenta por cobrar vencida, que vence dentro de "+VENTANA_DIAS+" dias, o por mas de $"+money(UMBRAL_MXN)+" MXN. <b>Se imprime SIEMPRE, haya cambiado o no.</b>",ord(urg),false,true,urgMap,null);
+  h+=sec("\u2705 Se resolvio desde el reporte anterior","Pedian algo y ya no. Va antes que el resto a proposito: es la senal de que el correo sirve.",ord(res),false,false,null,"resuelto");
+  h+=sec("Lo que cambio desde el reporte anterior","Entro, empeoro, mejoro o estreno bandera, y sigue pidiendo algo. Excluye los de arriba: ningun proyecto sale dos veces.",ord(camb),false,false,null,null);
+  h+=sec("Siguen pendientes, sin cambio","Piden algo y ya lo pedian. En el correo diario van contados; el lunes se despliegan.",ord(resto),true,false,null,null);
+  h+=sec("Ya no piden nada","En tiempo en su etapa, sin banderas y con seguimiento al dia.",ord(noPide),true,false,null,null);
   let rep="<section><h2>\u{1F527} Problemas del propio reporte ["+(nCorr?1:0)+"]</h2><p class=\"criterio\">Fallas de medicion o de escritura. No son proyectos atrasados.</p>";
-  rep += nCorr ? "<ul><li class=\"row\"><b>"+nCorr+" proyectos cambiaron por una CORRECCION DE MEDICION, no por avance.</b> El contador media la edad del proyecto y ahora mide el tiempo en la etapa (issue #229). Van marcados con su etiqueta azul.</li></ul>" : "<p class=\"vacio\">- nada -</p>";
+  rep+= nCorr ? "<ul><li class=\"row\"><b>HOY se recalibro el contador de los "+nCorr+" proyectos.</b> Media la EDAD del proyecto y ahora mide el tiempo en la ETAPA (#229). Los movimientos de dias de hoy son de medicion, no de avance; van con etiqueta azul. <b>Esto sale una sola vez</b> y se apaga solo manana.</li></ul>" : "<p class=\"vacio\">- nada -</p>";
   document.getElementById("cuerpo").innerHTML=h+rep+"</section>";
 }
 document.querySelectorAll(".tab").forEach(t=>t.onclick=()=>{grupo=t.dataset.g;
   document.querySelectorAll(".tab").forEach(x=>x.setAttribute("aria-selected",String(x===t)));pintar();});
 document.getElementById("ref").onclick=e=>{const b=e.target;b.disabled=true;b.textContent="Actualizando...";
   setTimeout(()=>{b.disabled=false;b.textContent="Actualizar";pintar();},600);};
-pintar();
-</script>
+pintar();</script>
